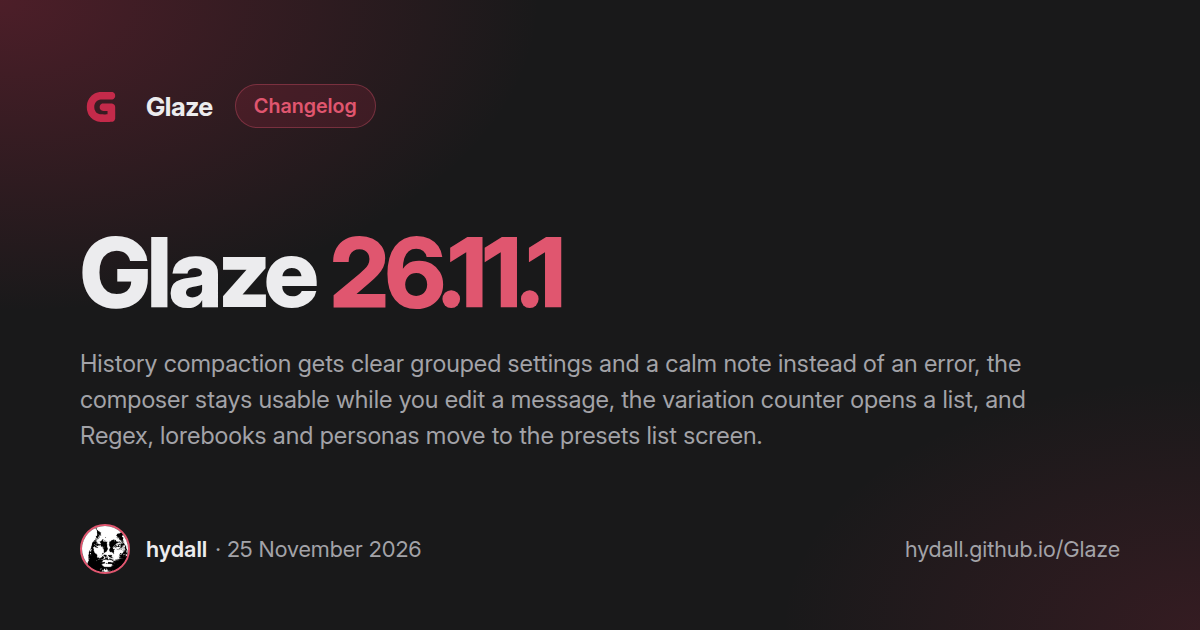
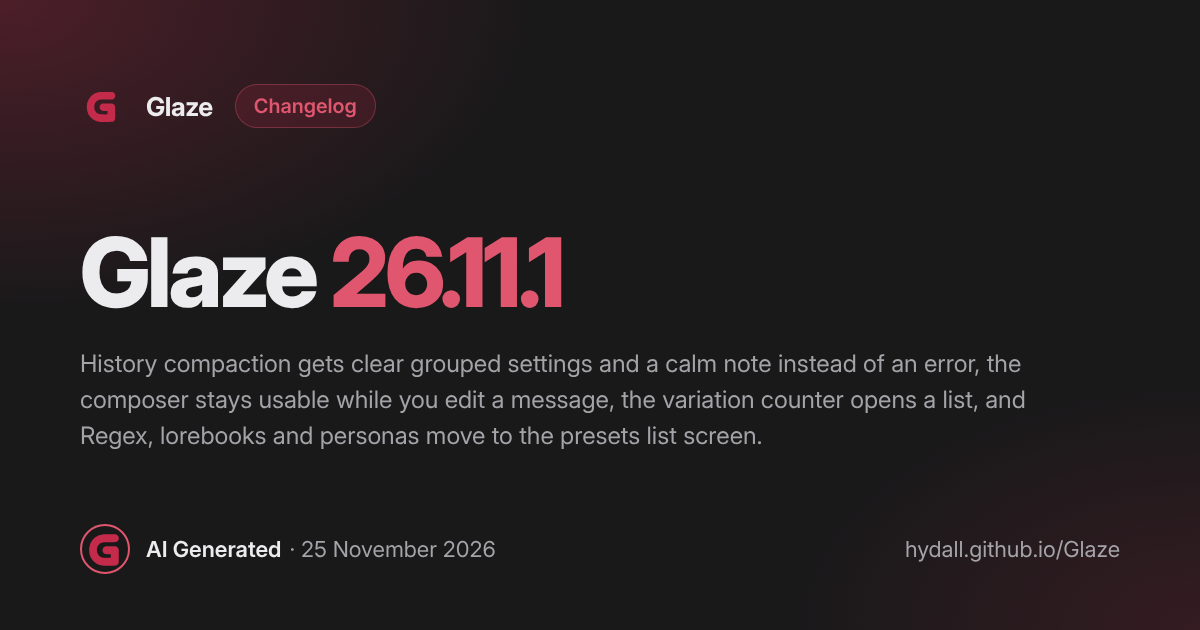
feat(site): sign generated release articles as AI Generated (#862)
- data.js gets an 'ai' author (name 'AI Generated', the Glaze logo,
  linking to the workflow that writes the articles).
- release_article.py signs new articles with it by default, and puts the
  author's display name, not the key, on the cover and the preview page.
- The 26.11.1 article moves to that author, with its cover re-rendered.

Claude-Session: https://claude.ai/code/session_01EVTf8KPepFXvSFePYqpqmf

diff --git a/site/assets/data.js b/site/assets/data.js
@@ -481,6 +481,8 @@ window.GLAZE = {
   // Who writes the articles: the name shown, an avatar in img/ and a link.
   authors: {
     hydall: { name: 'hydall', img: 'hydall.jpg', url: 'https://github.com/hydall' },
+    // Release articles written by .github/workflows/release-article.yml.
+    ai: { name: 'AI Generated', img: 'glaze.svg', url: 'https://github.com/hydall/Glaze/blob/main/.github/workflows/release-article.yml' },
   },
 
   // ── Info ───────────────────────────────────────────────────────────────────
@@ -604,7 +606,7 @@ window.GLAZE = {
       slug: '26.11.1',
       kind: 'changelog',
       date: '2026-11-25',
-      author: 'hydall',
+      author: 'ai',
       langs: ['ru', 'en'],
       download: 'v26.11.1',
       title: { ru: 'Glaze 26.11.1', en: 'Glaze 26.11.1' },

diff --git a/site/articles/26.11.1/index.html b/site/articles/26.11.1/index.html
@@ -27,7 +27,7 @@
   <meta property="og:locale" content="en_US">
   <meta property="og:locale:alternate" content="ru_RU">
   <meta property="article:published_time" content="2026-11-25">
-  <meta property="article:author" content="hydall">
+  <meta property="article:author" content="AI Generated">
 
   <meta name="twitter:card" content="summary_large_image">
   <meta name="twitter:title" content="Glaze 26.11.1">

diff --git a/.github/scripts/release_article.py b/.github/scripts/release_article.py
@@ -387,10 +387,11 @@ def reference_article(site: Path) -> dict[str, str]:
     return ref
 
 
-def author_avatar(site: Path, author: str) -> str:
+def author_info(site: Path, author: str) -> tuple[str, str]:
+    """(display name, avatar file) of a data.js `authors` key."""
     data = (site / "assets" / "data.js").read_text(encoding="utf-8")
-    m = re.search(rf"\b{re.escape(author)}: \{{[^}}]*img: '([^']+)'", data)
-    return m.group(1) if m else "glaze.svg"
+    m = re.search(rf"\b{re.escape(author)}: \{{ name: '([^']+)', img: '([^']+)'", data)
+    return (m.group(1), m.group(2)) if m else (author, "glaze.svg")
 
 
 # ── main ─────────────────────────────────────────────────────────────────────
@@ -401,7 +402,8 @@ def main() -> None:
     ap.add_argument("--tag", required=True)
     ap.add_argument("--prev-tag")
     ap.add_argument("--date", default=dt.date.today().isoformat())
-    ap.add_argument("--author", default="hydall")
+    # Key in data.js `authors`; generated articles are signed "AI Generated".
+    ap.add_argument("--author", default="ai")
     ap.add_argument("--site", default="site", type=Path)
     ap.add_argument("--assets", type=Path, help="JSON list of {name, size}")
     ap.add_argument("--announce-out", type=Path, required=True)
@@ -440,10 +442,10 @@ def main() -> None:
         path.write_text(article["body"][lang], encoding="utf-8")
     page_dir = site / "articles" / version
     page_dir.mkdir(parents=True, exist_ok=True)
+    author_name, avatar = author_info(site, args.author)
     (page_dir / "index.html").write_text(
-        preview_page(version, args.date, args.author, article["lead"]["en"]), encoding="utf-8")
-    render_cover(page_dir, version, args.date, args.author,
-                 author_avatar(site, args.author), article["lead"]["en"])
+        preview_page(version, args.date, author_name, article["lead"]["en"]), encoding="utf-8")
+    render_cover(page_dir, version, args.date, author_name, avatar, article["lead"]["en"])
 
     write_announcement(args.announce_out, version, article["lead"], article["new"])
     print(f"release_article: wrote the {version} article")
